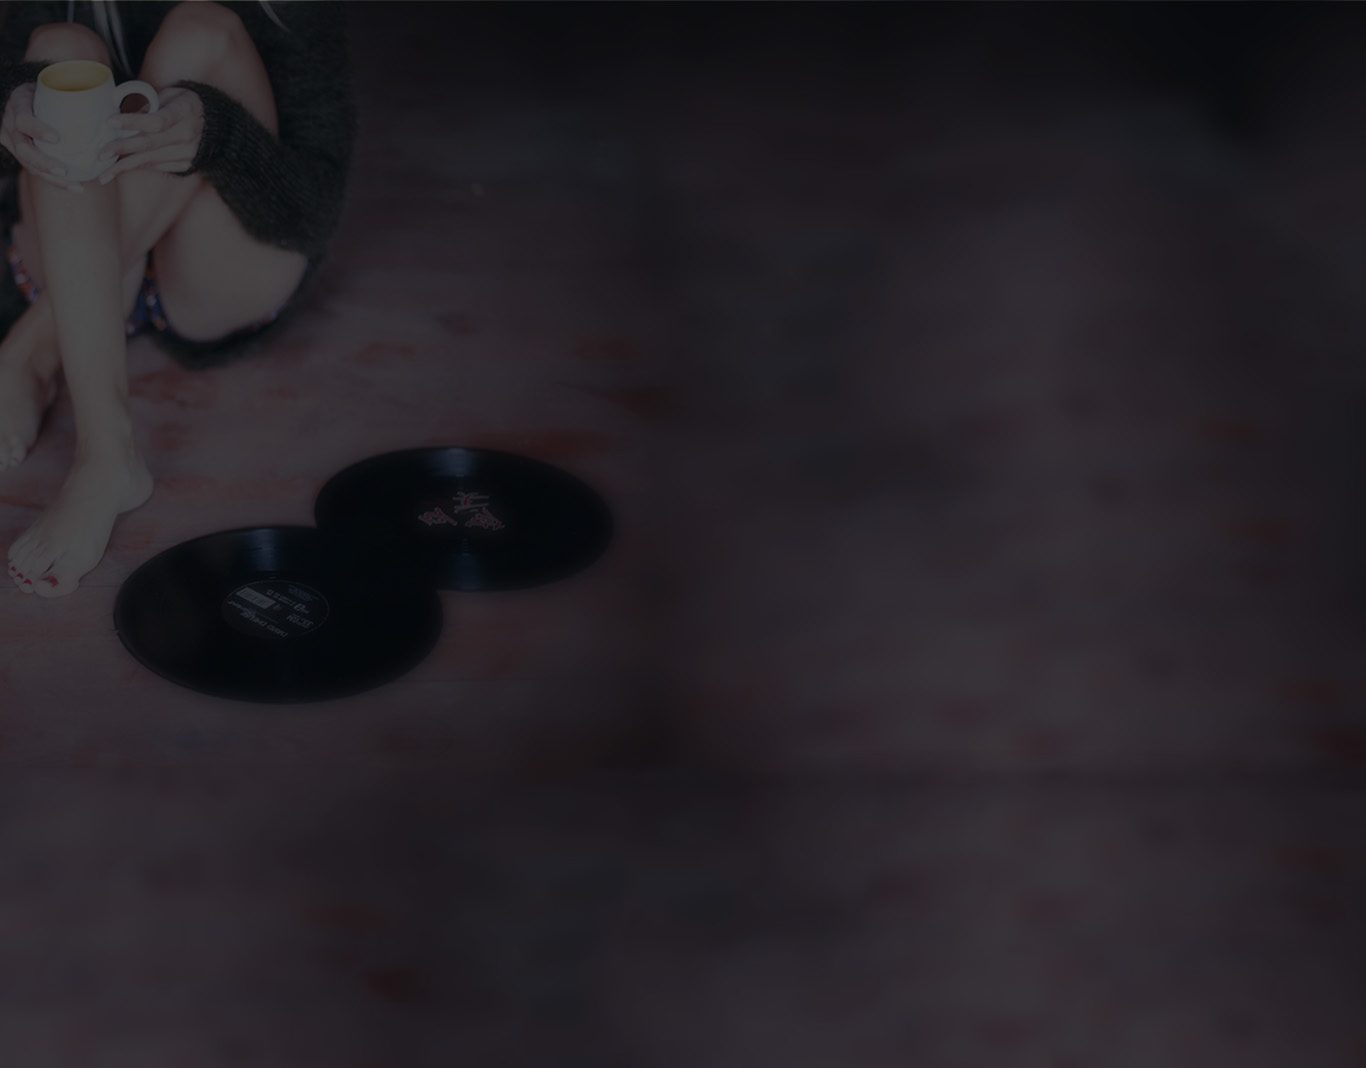
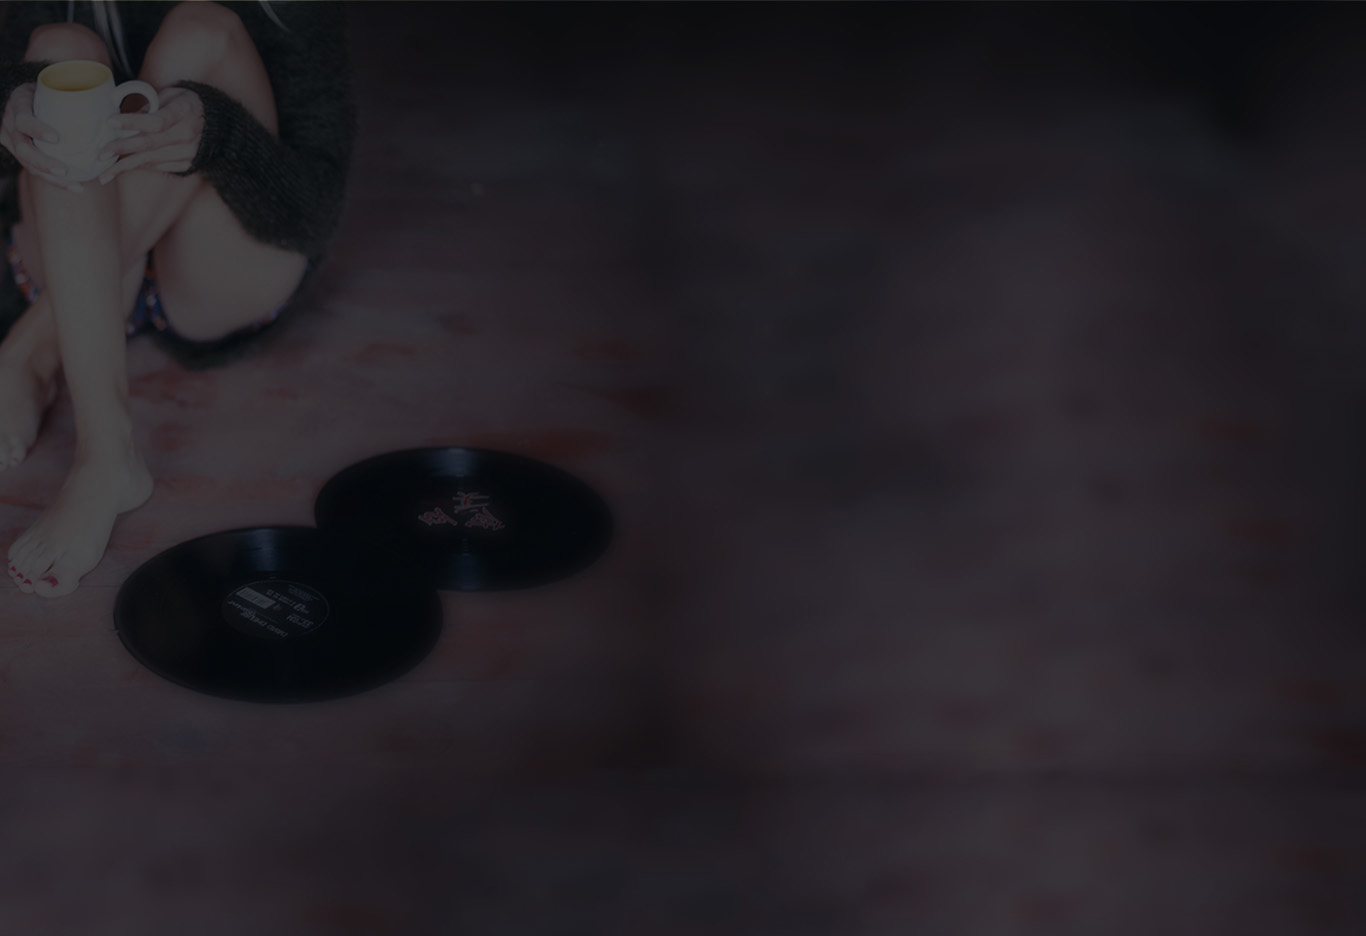
Responsive: small screens width

diff --git a/assets/frommail8.css b/assets/frommail8.css
@@ -43,7 +43,7 @@ h1, h2, h3, h4, h5, h6 {
 body
 {
   text-align: center;
-  background-image: url(pictures/backgroundGirl.jpg);
+  background: url(pictures/backgroundGirl.jpg) no-repeat center center fixed;
 
   -webkit-background-size: cover; /* pour Chrome et Safari */
   -moz-background-size: cover; /* pour Firefox */
@@ -165,7 +165,7 @@ h3 {
   color: transparent;
   display: inline-block;
   vertical-align: middle;
-  width:6.53vh;
+  width:6.54vh;
   height:6.53vh;
   font-size: 0.0000001em;
   margin-bottom: 1.3vh;
@@ -185,33 +185,21 @@ h3 {
 #minus_one
 {
   display: inline-block;
-  width:6.53vh;
-  height:6.53vh;
   background: url(pictures/cross_dislike.png);
   -webkit-background-size: cover; /* pour Chrome et Safari */
   -moz-background-size: cover; /* pour Firefox */
   -o-background-size: cover; /* pour Opera */
   background-size: cover; /* version standardisée */
-  vertical-align: middle;
-  /*margin-right: 3%;
-  margin-left: 3%;*/
-  margin-top: 0;
-  vertical-align: middle;
-
 }
+
 #plus_one
 {
   display: inline-block;
-  width:6.53vh;
-  height:6.53vh;
   background: url(pictures/heart_like.png);
   -webkit-background-size: cover; /* pour Chrome et Safari */
   -moz-background-size: cover; /* pour Firefox */
   -o-background-size: cover; /* pour Opera */
   background-size: cover; /* version standardisée */
-  vertical-align: middle;
-  /*margin-right: 3%;
-  margin-left: 3%;*/
   margin-top: 0;
   vertical-align: middle;
   }
@@ -267,7 +255,7 @@ input[value="play"]
   display: inline-block;
   width:8.49vh;
   height:8.49vh;
-  background: url(pictures/play_white.png);
+  background: url(pictures/play_white.png) center center;
   -webkit-background-size: cover; /* pour Chrome et Safari */
   -moz-background-size: cover; /* pour Firefox */
   -o-background-size: cover; /* pour Opera */
@@ -808,7 +796,7 @@ and (max-device-width : 480px)
     height: 100vw;
   }
 
-    .sound_box
+  .sound_box
   {
     margin: 0 1px 0 1px;
     position: relative;
@@ -992,6 +980,108 @@ and (max-device-width : 480px)
   {
 
     text-align: center;
+  }
+
+}
+
+/* Small PCs ----------- */
+@media only screen 
+and (min-width : 480px)
+and (max-width : 950px) {
+
+  .sound_cover,
+  .blurred_sound_cover,
+  .container,
+  .cover_container,
+  .transparent_overlay
+  {
+    width: 65.1vh;
+    height: 65.1vh;
+  }
+
+  .cover_container,
+  .cover_overlay,
+  .blurred_sound_cover,
+  .blurred_sound_cover_container
+  {
+    height: 65.1vh;
+  }
+
+    .sound_box
+  {
+    margin: 0 1px 0 1px;
+    position: relative;
+  }
+
+  .dropdown-menu
+  {
+    display: none;
+  }
+
+  #left_arrow, #right_arrow
+ {
+  display: inline-block;
+  width: 50px;
+  height: 120px;
+  text-align: center;
+  background-color: white;
+  border-radius: 20px;
+  opacity: 0.7;
+  margin: 0 10px 0 10px;
+  z-index: 1000000;
+ }
+
+ #left_arrow
+ {
+
+  position: absolute;
+  left: 0;
+  top: 22.62vh;
+ }
+
+  #right_arrow
+ {
+  float : right;
+
+  position: absolute;
+  right: 0;
+  top: 22.62vh;
+ }
+
+
+ #left_arrow_icon
+  {
+  width: 50px;
+  height: 50px;
+  margin-top: 35px;
+  border-style: none;
+  display: inline-block;
+  background: url(pictures/arrow_chevron_left.png);
+  -webkit-background-size: cover; /* pour Chrome et Safari */
+  -moz-background-size: cover; /* pour Firefox */
+  -o-background-size: cover; /* pour Opera */
+  background-size: cover; /* version standardisée */
+  background-repeat: no-repeat;
+  background-position:center center;
+  -webkit-transition: background-image 0.5s;
+  transition: background-image 0.5s;
+  }
+  #right_arrow_icon
+  {
+  height: 50px;
+  width: 50px;
+  margin-top: 35px;
+  display: inline-block;
+  border-style: none;
+  background: url(pictures/arrow_chevron_right.png);
+  -webkit-background-size: cover; /* pour Chrome et Safari */
+  -moz-background-size: cover; /* pour Firefox */
+  -o-background-size: cover; /* pour Opera */
+  background-size: cover; /* version standardisée */
+  background-repeat: no-repeat;
+  background-position:center center;
+  -webkit-transition: background-image 0.5s;
+  transition: background-image 0.5s;
   }
 
 }

diff --git a/assets/player2.js b/assets/player2.js
@@ -26,7 +26,7 @@ var slider = function(id){
 	this.precParent = this.div.find('#left_arrow');
 	this.suivParent = this.div.find('#right_arrow');
 	//alert(this.suiv.html());
-	this.saut=(this.lengthCach)+5;
+	this.saut=(this.lengthCach)+6;
 	this.steps = Math.ceil(this.largeur/this.saut);
 	//alert(this.steps);
 	this.courant = 0;
@@ -50,7 +50,7 @@ var slider = function(id){
 			self.largeur+=parseInt($(this).css("margin-right"));
 		});
 		console.log('InNewlargeur : '+self.largeur);
-		this.saut=(this.lengthCach)+5;
+		this.saut=(this.lengthCach)+6;
 		this.steps = Math.ceil(this.largeur/this.saut);
 		//s.slider.style.left = "0px";
 		var newSliderPosition = -s.courant * s.saut;
